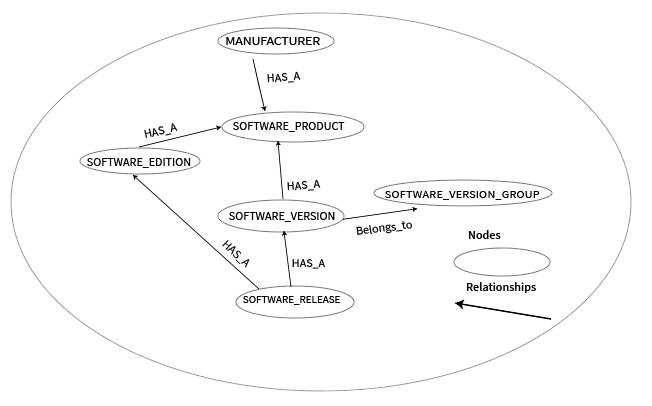
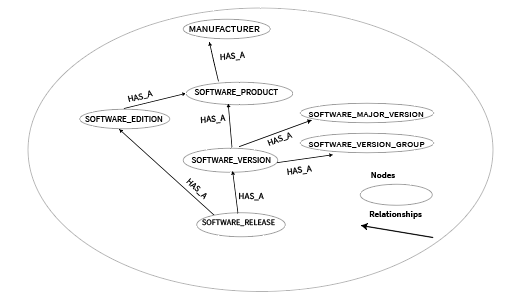
updates

diff --git a/_api/manufacturer2.1.md b/_api/manufacturer2.1.md
@@ -16,7 +16,7 @@ content_markdown: |-
   `MATCH (a:MANUFACTURER) WHERE a.manufacturer = "Microsoft" RETURN a`
   {: .info}
 
-  The following diagram shows the the manufacturer node and nodes that are one hop away.
+  The following diagram shows the the manufacturer node and its connections to software, haredware, and CPU.
 
   ![API Image](/images/manu.PNG){:class="img-responsive"} <br>
   
